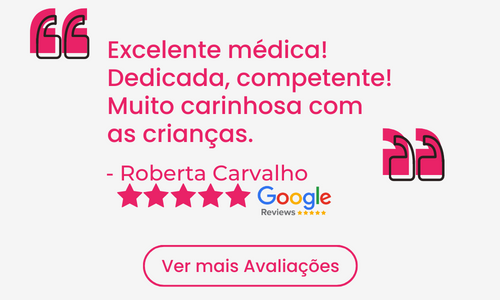
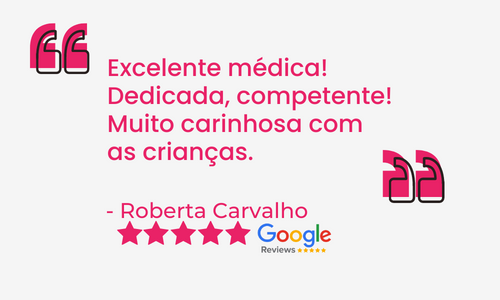
Sessão Depoimentos concluída

Changed region(s): [[0.21, 0.12, 0.78, 0.96], [0.75, 0.42, 0.9, 0.69], [0.06, 0.03, 0.18, 0.27]]

diff --git a/site-debora-lima/src/componentes/reviewsSection.jsx b/site-debora-lima/src/componentes/reviewsSection.jsx
@@ -45,6 +45,13 @@ function reviewsSection() {
           />
         </OwlCarousel>
       </div>
+      <div className="flex justify-center w-full">
+        <a href="https://bit.ly/3CCmlfi">
+          <button type="button" className="btn">
+            Ver mais Avaliações
+          </button>
+        </a>
+      </div>
     </div>
   );
 }

diff --git a/site-debora-lima/src/index.css b/site-debora-lima/src/index.css
@@ -147,3 +147,16 @@ text-[#E92267]
 text-[25px]
 text-center;
 }
+
+.btn {
+  @apply border-solid
+border-[#E92267]
+border-[3px]
+w-[300px]
+h-[50px]
+rounded-3xl
+font-poppins
+font-medium
+text-[22px]
+text-[#E92267];
+}
